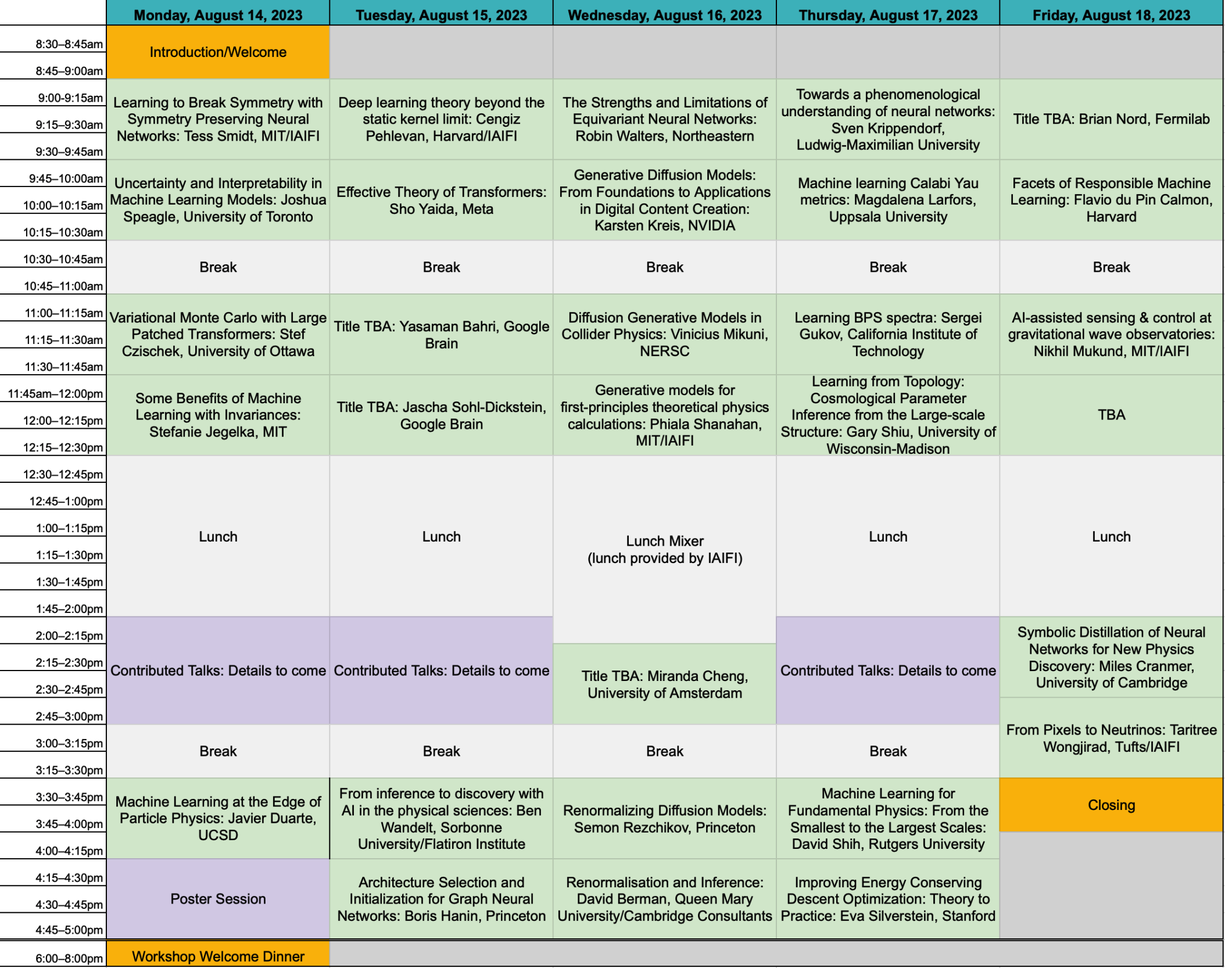
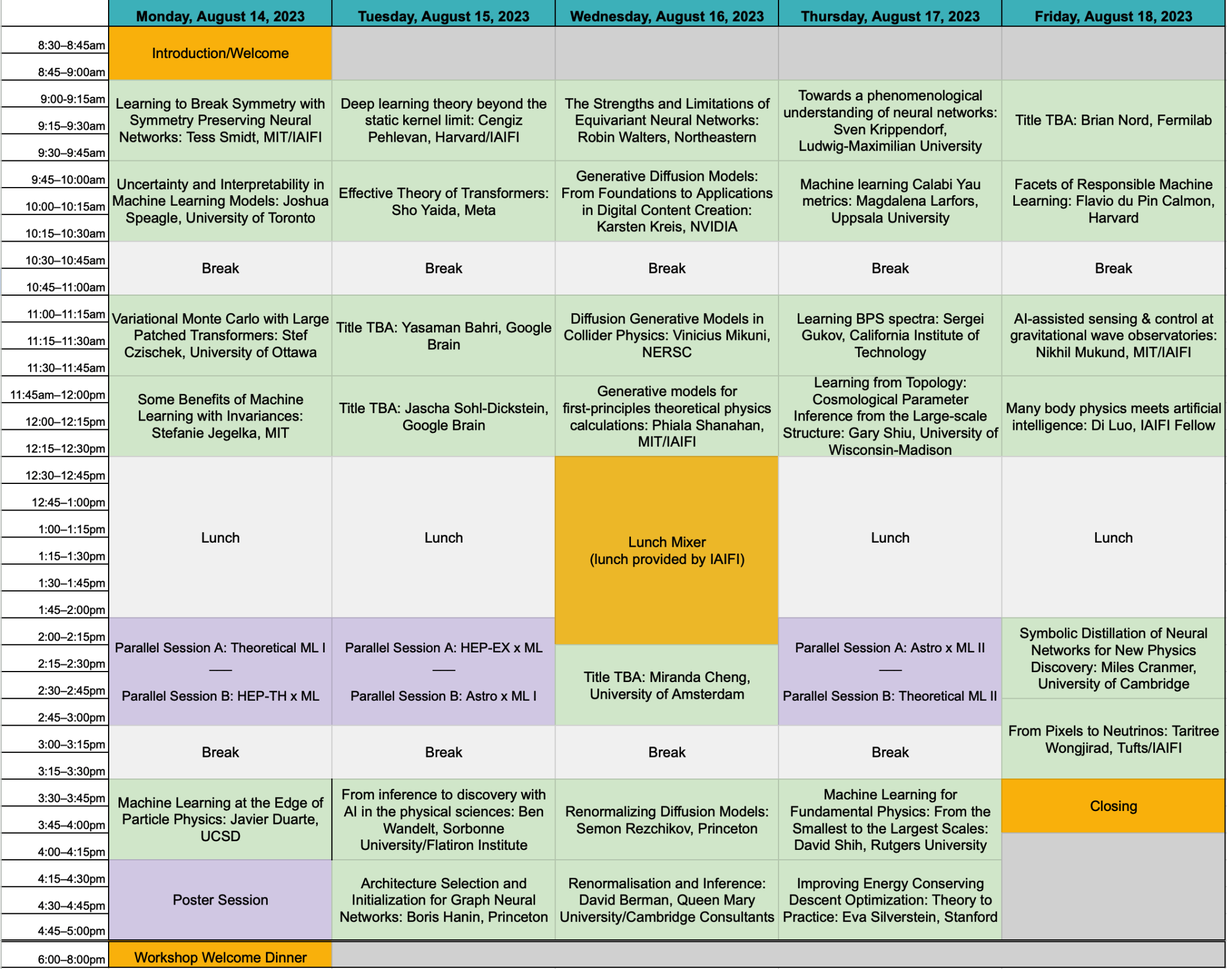
Adding parallel sessions and Di

diff --git a/summer-workshop.md b/summer-workshop.md
@@ -113,12 +113,50 @@ Lunch
 
 **2:00–3:00 pm ET**
 
-Contributed Talks Session I
+**Parallel Session A: Theoretical ML I**
 
 <details>
-<summary>Details</summary>
-<em>Details to come</em>
+<summary>Nu Tangent Kernels, Akshunna S. Dogra (Imperial College London)</summary>
+<em>The approximation and generalization capacity of deep learning models has been profitably leveraged across a staggeringly wide variety of tasks. In particular, appropriately initialized Neural Networks sampled from suitable functional spaces invariably find stages of exponential (or near-exponential) learning. We introduce $\nu$ - Tangent Kernels ($\nu$TKs), functional analytic objects partly inspired from the Neural Tangent Kernel (NTK), to build a generic theory for Neural Network optimization and generalization. Specifically, we prove that for a large category of well-posed and semi-well-posed problems, Neural Network based models are capable of exponentially learning the tasks at hand. Notably, these results are showcased for a much wider class of loss functions/architectures than the standard mean squared error/large width regime that is usually the focus of conventional NTK analysis, and apply to diverse practical problems solved using real networks such as differential equation solvers, shape recognition, classification, feature extraction, etc. We end by exemplifying the power of the $\nu$TK perspective by comparing expected vs empirically observed optimization profiles across different regimes.</em>
 </details>
+
+<details>
+<summary>Stochastic Collapse: How Gradient Noise Attracts SGD Dynamics Towards Simpler Subnetworks, Daniel Kunin (Stanford University)</summary>
+<em>In this work, we reveal a strong implicit bias of stochastic gradient descent (SGD) that drives overparameterized networks to much simpler subnetworks, thereby dramatically reducing the number of independent parameters, and improving generalization. To reveal this bias, we identify {\it invariant sets}, or subsets of parameter space that remain unmodified by SGD. We focus on two classes of invariant sets that correspond to simpler subnetworks and commonly appear in modern architectures. Our analysis uncovers that SGD exhibits a property of {\it stochastic attractivity} towards these simpler invariant sets. We establish a sufficient condition for stochastic attractivity based on a competition between the loss landscape's curvature around the invariant set and the noise introduced by stochastic gradients. Remarkably, we find that an increased level of noise strengthens attractivity, leading to the emergence of attractive invariant sets associated with saddle-points or local maxima of the train loss. The existence of attractive invariant sets demonstrates that SGD dynamics often collapses to simple subnetworks with either vanishing or redundant neurons. We further demonstrate how this simplifying process of {\it stochastic collapse} benefits generalization in a linear teacher-student framework. Finally, using our analysis, we mechanistically explain why early training with large learning rates for extended periods benefits subsequent generalization.</em>
+</details>
+
+<details>
+<summary>A Solvable Model of Neural Scaling Laws, Alexander Maloney (McGill University)</summary>
+<em>Large language models with a huge number of parameters, when trained on near internet-sized number of tokens, have been empirically shown to obey neural scaling laws: specifically, their performance behaves predictably as a power law in either parameters or dataset size until bottlenecked by the other resource. To understand this better, we first identify the necessary properties allowing such scaling laws to arise and then propose a statistical model -- a joint generative data model and random feature model -- that captures this neural scaling phenomenology. By solving this model in the dual limit of large training set size and large number of parameters, we gain insight into (i) the statistical structure of datasets and tasks that lead to scaling laws, (ii) the way nonlinear feature maps, such as those provided by neural networks, enable scaling laws when trained on these datasets, (iii) the optimality of the equiparameterization scaling of training sets and parameters, and (iv) whether such scaling laws can break down and how they behave when they do. Key findings are the manner in which the power laws that occur in the statistics of natural datasets are extended by nonlinear random feature maps and then translated into power-law scalings of the test loss and how the finite extent of the data's spectral power law causes the model's performance to plateau.</em>
+</details>
+
+<details>
+<summary>Grokking: a playground for future learning, Darshil Doshi (University of Maryland)</summary>
+<em>Grokking in machine learning is the phenomenon of delayed generalization; wherein the network memorizes the training data quickly, but takes a much longer training time to learn useful features and generalize. Grokking offers a unique playground to gain insight into feature learning and generalization. In my talk, I will present a minimal framework that recreates Grokking: training a 2-layer Fully-Connected Network on Modular Arithmetic data. In this setup, it is possible to write down an analytical solution that generalizes to a 100% accuracy. More excitingly, a network trained with gradient descent finds the same solution! I will discuss these special solutions and the corresponding features. Furthermore, I will describe grokking "transitions" with training time, training dataset size and model size. I will end the talk with some interesting open questions on the topic and our ongoing work.</em>
+</details>
+
+**Parallel Session B: HEP-TH x ML**
+
+<details>
+<summary>$λφ^4$ Scalar Neural Network Field Theory, Anindita Maiti (Harvard University)</summary>
+<em>Neural Network (NN) architectures at initialization define field theories. Certain large width limits of architectures result in free field theories due to Central Limit Theorem (CLT); deviations from CLT via finite width, and correlated, dissimilar NN parameters turn on field interactions. Edgeworth method provides a way to construct NN field theory actions using connected Feynman diagrams, where internal vertices correspond to connected correlators of NN field theories. Further, specific interacting field theories can be engineered via the NN parameter framework, where non-Gaussianities due to statistical independence breaking of NN parameters tune the action deformations. As an example, I will present the construction of $λφ^4$ scalar field theory in infinite width NNs.</em>
+</details>
+
+<details>
+<summary>Applying the Variational Principle to Quantum Field Theory with Neural-Networks, John Martyn (MIT)</summary>
+<em>Physicists dating back to Feynman have lamented the difficulties of applying the variational principle to quantum field theories. In non-relativistic quantum field theories, the challenge is to parameterize and optimize over the infinitely many n-particle wave functions comprising the state's Fock space representation. Here we approach this problem by introducing neural-network quantum field states, a deep learning ansatz that enables application of the variational principle to non-relativistic quantum field theories in the continuum. Our ansatz uses the Deep Sets neural network architecture to simultaneously parameterize all of the n-particle wave functions comprising a quantum field state. We employ our ansatz to approximate ground states of various field theories, including an inhomogeneous system and a system with long-range interactions, thus demonstrating a powerful new tool for probing quantum field theories.</em>
+</details>
+
+<details>
+<summary>Structures of Neural Network Effective Theories, Zhengkang Zhang (University of Utah)</summary>
+<em>We develop a diagrammatic approach to effective field theories (EFTs) corresponding to deep neural networks at initialization, which dramatically simplifies computations of finite-width corrections to neuron statistics. The structures of EFT calculations make it transparent that a single condition governs criticality of all connected correlators of neuron preactivations. Understanding of such EFTs may facilitate progress in both deep learning and field theory simulations.</em>
+</details>
+
+<details>
+<summary>Normalizing Flows for Effective String Theory, Elia Cellini (University of Turin / INFN Turin)</summary>
+<em>Effective String Theory (EST) is a non-perturbative framework used to describe confinement in Yang-Mills theory through the modeling of the interquark potential in terms of vibrating strings. An efficient numerical method to simulate such theories where analytical studies are not possible is still lacking. However, in recent years a new class of deep generative models called Normalizing Flows (NFs) has been proposed to sample lattice field theories more efficiently than traditional Monte Carlo methods. In this talk, we show a proof of concept of the application of NFs to EST regularized on the lattice. Namely, we use as case study the Nambu-Goto string in order to use the well-known analytical results of this theory as a benchmark for our methods.</em>
+</details>
+
 
 **3:00–3:30 pm ET**
 
@@ -182,11 +220,11 @@ Title TBA, Yasaman Bahri (Google Brain)
 
 **11:45 am–12:30 pm ET**
 
-Title TBA, Jascha Sohl-Dickstein (Google Brain)
+Learned optimizers: why they're the future, why they’re hard, and what they can do now, Jascha Sohl-Dickstein (Google Brain)
 
 <details>
 <summary>Abstract</summary>
-<em>Abstract to come</em>
+<em>The success of deep learning has hinged on learned functions dramatically outperforming hand-designed functions for many tasks. However, we still train models using hand designed optimizers acting on hand designed loss functions. I will argue that these hand designed components are typically mismatched to the desired behavior, and that we can expect meta-learned optimizers to perform much better. I will discuss the challenges and pathologies that make meta-training learned optimizers difficult. These include: chaotic and high variance meta-loss landscapes; extreme computational costs for meta-training; lack of comprehensive meta-training datasets; challenges designing learned optimizers with the right inductive biases; challenges interpreting the method of action of learned optimizers. I will share solutions to some of these challenges. I will show experimental results where learned optimizers outperform hand-designed optimizers in many contexts, and I will discuss novel capabilities that are enabled by meta-training learned optimizers.</em>
 </details>
 
 **12:30–2:00 pm ET**
@@ -195,11 +233,48 @@ Lunch
 
 **2:00–3:00 pm ET**
 
-Contributed Talks Session II
+**Parallel Session A: HEP-EX x ML**
 
 <details>
-<summary>Details</summary>
-<em>Details to come</em>
+<summary>Is infrared-collinear safe information all you need for jet classification?, Dimitrios Athanasakos (YITP, Stony Brook)</summary>
+<em>Machine learning-based jet classifiers are able to achieve impressive tagging performance in a variety of applications in high energy and nuclear physics. However, it remains unclear in many cases which aspects of jets give rise to this discriminating power, and whether jet observables that are tractable in perturbative QCD such as those obeying infrared-collinear (IRC) safety serve as sufficient inputs. In this article, we introduce a new classifier, Jet Flow Networks (JFNs), in an effort to address the question of whether IRC unsafe information provides additional discriminating power in jet classification. JFNs are permutation-invariant neural networks (deep sets) that take as input the kinematic information of reconstructed subjets. The subjet radius serves as a tunable hyperparameter, enabling the sensitivity to soft emissions and nonperturbative effects to be gradually increased as the subjet radius is decreased. We demonstrate the performance of JFNs for quark vs. gluon and QCD vs.  � Z jet tagging. For small subjet radii, the performance of JFNs is equivalent to the IRC-unsafe Particle Flow Networks (PFNs), demonstrating that infrared-collinear unsafe information is not necessary to achieve strong discrimination for both cases. As the subjet radius is increased, the performance of the JFNs remains essentially unchanged until physical thresholds that we identify are crossed. For relatively large subjet radii, we show that the JFNs may offer an increased model independence with a modest tradeoff in performance compared to classifiers that use the full particle information of the jet. These results shed new light onto how machines learn patterns in high-energy physics data.</em>
+</details>
+
+<details>
+<summary>Machine Learning the Top Mass, Katherine Fraser (Harvard University)</summary>
+<em>Measurements in particle colliders are often done by fitting data to simulation, which depends on many parameters. For the top quark mass in particular, these physical and unphysical parameters generate a source of error that must be profiled when fitting. In this talk, we discuss several methods for reducing this source of error, including the machine-learning method DCTR and a dense linearly-activated neural network. We also compare to histogram fits commonly used in experiment.</em>
+</details>
+
+<details>
+<summary>Data-Driven Light Model for the MicroBooNE Experiment, Polina Abratenko (Tufts University)</summary>
+<em>MicroBooNE is a short baseline neutrino oscillation experiment that employs Liquid Argon Time Projection Chamber (LArTPC) technology together with an array of Photomultiplier Tubes (PMTs), which detect scintillation light. This light detection is necessary for providing a means to reject cosmic ray background and trigger on beam-related interactions. Thus, accurate modeling of the expected optical detector signal is critical. Previous light models used on MicroBooNE have been simulation-based, which limits accuracy related to certain regions of the detector as well as different data conditions during runs. We present the status of a data-driven light model that uses a neural network to map the light yield in the MicroBooNE detector, allowing for specific conditioning based on MicroBooNE data.</em>
+</details>
+
+<details>
+<summary>Using Machine Learning to Consolidate Input for DUNE’s 2x2 Prototype Near Detector, Jessie Micallef (IAIFI Fellow)</summary>
+<em>The Deep Underground Neutrino Experiment (DUNE) aims to measure neutrino properties by detecting neutrinos as they travel 1300 km from Fermilab to Sanford Underground Research Facility (SURF). Understanding the composition of the neutrino beam at Fermilab is vital to make precision measurements at SURF, and thus a prototype of the near detector will soon begin testing. The state-of-the-art near detector prototype has some challenges for reconstructing particles, such as gaps between submodules inside the prototype detector and inputs from differently designed endcap detectors. This talk will discuss work to use machine learning methods that could generate the missing signatures between submodules and detectors, along with leveraging information from the endcap detectors’ despite their different geometry and structure.</em>
+</details>
+
+**Parallel Session B: Astro x ML I**
+
+<details>
+<summary>GHDNet: A Physics-Informed Neural Network for solving hydrodynamical systems in the presence of Self-gravity, Ramit Day (Western University, Perimeter Institute)</summary>
+<em>We propose GHDNet, a PINN-based architecture to model/solve a 3D self-gravitating hydrodynamical system. In computational astrophysics, cosmology and planetary science, such systems are of fundamental importance and the non-linear interaction of fluid dynamics with gravity makes them complicated. Compared to traditional approaches such as Finite Difference (FD), we show that PINNs being mesh-free, is a promising alternative, circumventing various limitations of the FD method. We present case studies where PINNs can trace the exponential growth of density due to gravitational instability in an efficient way while providing a more flexible, adaptable and scalable framework. We observe that for the 3D hydrodynamic simulations the runtime is ~10 times less compared to FD. Interestingly, GHDNet can predict accurate solutions well beyond the training domain.  Further, the accuracy of the model, both in terms of training loss as well as the deviation from the FD solution is analysed for a wide range of model parameters and a possible scaling law for PINNs is speculated.</em>
+</details>
+
+<details>
+<summary>Leveraging Machine Learning for Retrieving Exoplanet Atmosphere Parameters from Low-Resolution Spectra, Cecilia Garraffo (AstroAI - CfA Harvard & Smithsonian)</summary>
+<em>The study of exoplanet atmospheres plays a vital role in understanding their composition. However, extracting accurate atmospheric parameters from transmission spectra poses significant challenges. Bayesian sampling algorithms, although effective, can be time-consuming and laborious. As an alternative, machine learning techniques offer promising avenues to expedite and enhance this process.  At the AstroAI group, Center for Astrophysics | Harvard & Smithsonian, we focus on developing AI-based solutions to address astrophysics challenges.  In this presentation I will discuss a new model to retrieve the atmospheric parameters of Earth-sized rocky exoplanets observed with the JWST NIRSpec instrument using machine learning techniques. To tackle this task, we put together an interdisciplinary team of experts in Machine Learning, Astronomy, Molecular Spectroscopy, and Exoplanetary Research. In addition, I will discuss our results in the ARIEL data challenge organized by the European Space Agency (ESA), which paves the way for analyzing data from the upcoming ARIEL space telescope.  I will show the results of two different AI techniques: semi-supervised autoencoders and normalising flows. With the first we retrieve credible atmospheric parameters while simultaneously providing a fast estimator of radiative transfer. The second allows us to generate probability distributions of the parameters for each observed spectrum, and thus gain valuable insights into the plausible compositions for each specific spectrum.   Through this interdisciplinary approach that merges astrophysics and machine learning, we aim to advance our understanding of exoplanet atmospheres. Our research showcases the capabilities of AI tools to revolutionize the analysis of exoplanetary data, preparing the ground for more efficient and accurate characterization of exoplanets in the future.</em>
+</details>
+
+<details>
+<summary>Generating images of the M87* black hole using GANs, Arya Mohan (AstroAI - Texas Tech)</summary>
+<em>Recently, AstroAI has been developing imaging computer vision algorithms to accomplish a series of tasks, including direct inference on the physical parameters of Black Holes, in collaboration with the Event Horizon Telescope (EHT).  In this talk I will present a novel data augmentation methodology based on Conditional Progressive Generative Adversarial Networks (CPGAN) to generate diverse black hole (BH) images, accounting for variations in spin and electron temperature prescriptions. These generated images are valuable resources for training deep learning algorithms to accurately estimate black hole parameters from observational data. Our model can generate BH images for any spin value within the range of [-1, 1], given an electron temperature distribution. To validate the effectiveness of our approach, we employ a convolutional neural network to predict the BH spin using both the GRMHD images and the images generated by our proposed model. Our results demonstrate a significant performance improvement when training is conducted with the augmented dataset while testing is performed using GRMHD simulated data, as indicated by the high $R^2$ score. In this talk, I will discuss how employing GANs as cost-effective models for black hole image generation can reliably augment training datasets for other parameterization algorithms.</em>
+</details>
+
+<details>
+<summary>Applications of Autoencoders to Spectral and Timing Data for Black-Hole X-ray Binary Systems, Thaddeus Kiker(AstroAI - Columbia University)</summary>
+<em>Recently, AstroAI has been developing imaging computer vision algorithms to accomplish a series of tasks, including direct inference on the physical parameters of Black Holes, in collaboration with the Event Horizon Telescope (EHT).  In this talk I will present a novel data augmentation methodology based on Conditional Progressive Generative Adversarial Networks (CPGAN) to generate diverse black hole (BH) images, accounting for variations in spin and electron temperature prescriptions. These generated images are valuable resources for training deep learning algorithms to accurately estimate black hole parameters from observational data. Our model can generate BH images for any spin value within the range of [-1, 1], given an electron temperature distribution. To validate the effectiveness of our approach, we employ a convolutional neural network to predict the BH spin using both the GRMHD images and the images generated by our proposed model. Our results demonstrate a significant performance improvement when training is conducted with the augmented dataset while testing is performed using GRMHD simulated data, as indicated by the high $R^2$ score. In this talk, I will discuss how employing GANs as cost-effective models for black hole image generation can reliably augment training datasets for other parameterization algorithms.</em>
 </details>
 
 **3:00–3:30 pm ET**
@@ -296,7 +371,7 @@ Renormalizing Diffusion Models, Semon Rezchikov (Princeton)
 
 **4:15–5:00 pm ET**
 
-Renormalisation and Inference, David Berman (Queen Mary University/Cambridge Consultants
+Renormalisation and Inference, David Berman (Queen Mary University/Cambridge Consultants)
 
 <details>
 <summary>Abstract</summary>
@@ -352,11 +427,43 @@ Lunch
 
 **2:00–3:00 pm ET**
 
-Contributed Talks Session III
+**Parallel Session A: Astro x ML II**
 
 <details>
-<summary>Details</summary>
-<em>Details to come</em>
+<summary>Using Neural Networks to detect Dark Star Candidates in the Early Universe, Sayed Shafaat Mahmud (Colgate University)</summary>
+<em>Dark Stars, hypothesized to have formed during the cosmic dawn era,  are unique stellar objects that utilize dark matter annihilation as their primary source of energy against gravitational collapse. These stars can reach immense sizes, growing to millions of times the mass of our Sun, and possess luminosities on the order of trillion times that of the Sun. Dark Stars, powered by dark matter, have limited lifespans and may ultimately evolve into supermassive black holes. As such, Supermassive Dark Stars can be the precursors to the many observed supermassive black holes at high redshift, which remains an open question, many years after their discovery.  With the advent of the James Webb Space Telescope (JWST), we are now observing photometric data of too many, too massive, galaxy candidates too early in the universe. Motivated by recent findings by Ilie, Paulin, and Freese 2023 (PNAS submitted), who identified the first three Supermassive Dark Star candidates, our study aims to identify many more such candidates in the JWST data. To accomplish this, we will use a ‘two-step’ Neural network approach that trains using ~100,000 TLUSTY simulated spectra and identifies dark star candidates based on publicly available photometric data of high redshift objects found with JWST. As a validation of our method, we independently re-identified JADES-GS-z13-0, JADES-GS-z12-0, and JADES-GS-z11-0 as Dark Star candidates, as those found via a different approach in Ilie, Paulin, and Freese 2023.    Our study presents a novel application of neural networks in the detection of Dark Star candidates. The results from our analysis demonstrate the potential of neural networks in accurately predicting the crucial parameters associated with Dark Stars. This study contributes to our understanding of early universe astrophysics and aids in the identification of elusive Dark Star objects, shedding light on the complex interplay between dark matter and stellar evolution.</em>
+</details>
+
+<details>
+<summary>Mapping Dark Matter in the Milky Way using Normalizing Flows and Gaia DR3, Sung Has Lim (Rutgers University)</summary>
+<em>We present a novel, data-driven analysis of Galactic dynamics, using unsupervised machine learning -- in the form of density estimation with normalizing flows -- to learn the underlying phase space distribution of 6 million nearby stars from the Gaia DR3 catalog. Solving the collisionless Boltzmann equation with the assumption of approximate equilibrium, we calculate -- for the first time ever -- a model-free, unbinned, fully 3D map of the local acceleration and mass density fields within a 3 kpc sphere around the Sun. As our approach makes no assumptions about symmetries, we can test for signs of disequilibrium in our results. We find our results are consistent with equilibrium at the 10% level, limited by the current precision of the normalizing flows. After subtracting the known contribution of stars and gas from the calculated mass density, we find clear evidence for dark matter throughout the analyzed volume. Assuming spherical symmetry and averaging mass density measurements, we find a local dark matter density of 0.47±0.05GeV/cm3. We fit our results to a generalized NFW, and find a profile broadly consistent with other recent analyses.</em>
+</details>
+
+<details>
+<summary>LenSiam: Self-Supervised Learning on Strong Gravitational Lens Images, Joshua Yao-Yu Lin (Prescient Design/Genentech)</summary>
+<em>Self-supervised learning has been known for learning good representations from data without annotated labels. We explore the simple siamese (SimSiam) architecture for representation learn- ing on strong gravitational lens images. Com- monly used image augmentations tend to change lens properties; for example, zoom-in would af- fect the Einstein radius. To create image pairs representing the same underlying lens model, we introduce a lens augmentation method to preserve lens properties by fixing the lens model while varying the source galaxies. Our research demon- strates this lens augmentation works well with SimSiam for learning the lens image representa- tion without labels, so we name it LenSiam. We also show that a pre-trained LenSiam model can benefit downstream tasks. We plan to open-source our code and datasets.</em>
+</details>
+
+**Parallel Session B: Theoretical ML II**
+
+<details>
+<summary>Noisy dynamical systems evolve error correcting codes and modularity, Trevor McCourt (MIT/IAIFI)</summary>
+<em>Noise is a ubiquitous feature of the physical world. As a result, the first prerequisite of life is fault tolerance: maintaining integrity of state despite external bombardment. Recent experimental advances have revealed that biological systems achieve fault tolerance by implementing mathematically intricate error-correcting codes and by organizing in a modular fashion that physically separates functionally distinct subsystems. These elaborate structures represent a vanishing volume in the massive genetic configuration space. How is it possible that the primitive process of evolution, by which all biological systems evolved, achieved such unusual results? In this work, through experiments in Boolean networks, we show that the simultaneous presence of error correction and modularity in biological systems is no coincidence. Rather, it is a typical co-occurrence in noisy dynamic systems undergoing evolution. From this, we deduce the principle of error correction enhanced evolvability: systems possessing error-correcting codes are more effectively improved by evolution than those without.</em>
+</details>
+
+<details>
+<summary>Multi-modal Contrastive Learning for Robust Text Representation Classification, Mitra Tajrobehkar (vertical oceans pte ltd)</summary>
+<em>Contrastive representation learning has emerged as a powerful technique in both Computer Vision (CV) and Natural Language Processing (NLP) domains, enabling the acquisition of practical and meaningful representations from text data. This talk will explore the captivating realm of contrastive representation learning in NLP, investigating its underlying principles and applications in tasks such as question answering. We will delve into the remarkable success of contrastive learning in enhancing language understanding, transfer learning, and domain adaptation in NLP tasks. Additionally, we will address the challenges associated with training language models, including limitations arising from data scarcity and bias. Join us to discover the potential of contrastive representation learning in advancing the capabilities of pre-trained language models.</em>
+</details>
+
+<details>
+<summary>High-Dimensional Asymptotics of Feature Learning in the Early Phase of Neural Network Training, Zhichao Wang (UC San Diego)</summary>
+<em>In this talk, I will present a recent application of random matrix theory in deep learning theory. We aim to show the benefit of feature learning due to gradient descent training of the first-layer parameters in a two-layer neural network where all the weight matrices are randomly initialized, and the training objective is the empirical MSE loss. We consider the ``early phase'' of learning in the proportional asymptotic limit, where all the dimensions go to infinity proportionally, and the number of gradient steps remains finite. In an idealized student-teacher setting, we show that gradient updates in the early phase result in a spiked random matrix model, which leads to an alignment between the first-layer weights and the teacher model. To quantify the impact of this alignment, we compute the asymptotic prediction risk of ridge regression on the trained features, which is determined by the Stieltjes transform of the limiting spectrum of the certain kernel random matrix. For a small learning rate, we establish a Gaussian equivalence property for the trained feature map and prove that the trained feature improves upon the initial random features model, but cannot defeat the best linear model on the input after finitely many gradient steps. Whereas for a sufficiently large learning rate, I will show that even after one gradient step, the same ridge estimator on trained features can go beyond this ``linear regime''. The talk is based on joint work with Jimmy Ba, Murat A. Erdogdu, Taiji Suzuki, Denny Wu,  and Greg Yang (arXiv:2205.01445).</em>
+</details>
+
+<details>
+<summary>Adaptive active Brownian particles searching for targets of unknown positions, Harpreet Kaur (University of Innsbruck)</summary>
+<em>Developing behavioral policies designed to efficiently solve target-search problems is a crucial issue both in nature and in the nanotechnology of the 21st century. Here, we characterize the target-search strategies of simple microswimmers in a homogeneous environment containing sparse targets of unknown positions. The microswimmers are capable of controlling their dynamics by switching between Brownian motion and an active Brownian particle and by selecting the time duration of each of the two phases. The specific conduct of a single microswimmer depends on an internal decision-making process determined by a simple neural network associated with the agent itself. Starting from a population of individuals with random behavior, we exploit the genetic algorithm NeuroEvolution of Augmenting Topologies to show how an evolutionary pressure based on the target-search performances of single individuals helps to find the optimal duration of the two different phases. Our findings reveal that the optimal policy strongly depends on the magnitude of the particle’s self-propulsion during the active phase and that a broad spectrum of network topology solutions exists, differing in the number of connections and hidden nodes.</em>
 </details>
 
 **3:00–3:30 pm ET**
@@ -418,11 +525,11 @@ AI-assisted sensing & control at gravitational wave observatories, Nikhil Mukund
 
 **11:45 am–12:30 pm ET**
 
-TBA
+Many body physics meets artificial intelligence, Di Luo (IAIFI Fellow)
 
 <details>
 <summary>Abstract</summary>
-<em>Abstract to come.</em>
+<em>In this talk, we will discuss the interaction between many-body physics and artificial intelligence. The advancement of artificial intelligence provides powerful tools for simulating many-body physics systems, ranging from high energy physics, condensed matter physics to quantum chemistry. Meanwhile, the many-body physics principles also inspire the development of AI and robotics, including generative models and robot planning.</em>
 </details>
 
 **12:30–2:00 pm ET**
@@ -610,6 +717,18 @@ The following speakers have accepted invitations to give plenary talks at this y
          </div>
          <div class="card-text" style="text-align: center; min-height: 4rem; line-height: 140%">
          <em> Senior Lecturer/Associate Professor, Uppsala University </em> <br>
+         </div>
+         </div>
+       </div>
+
+     <div class="card" style="width: 17rem; height: 20rem; justify-content: center;">
+         <img class="my-card-img-top" src="images/small-photo-di-luo.jpg" alt="Di Luo" height="210rem" style="object-fit: cover;">
+         <div class="card-body d-flex flex-column">
+         <div class="card-text" style="text-align: center; min-height: 2rem;">
+         <a href="https://scholar.google.com/citations?user=OxZytTQAAAAJ">Di Luo</a>
+         </div>
+         <div class="card-text" style="text-align: center; min-height: 4rem; line-height: 140%">
+         <em> IAIFI Fellow </em> <br>
          </div>
          </div>
        </div>
